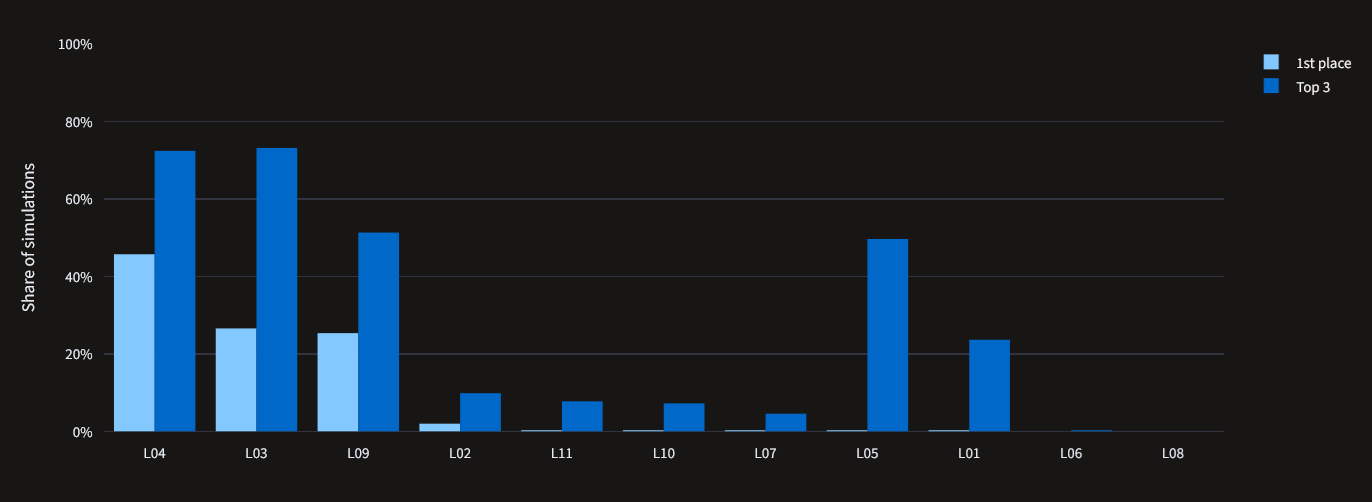
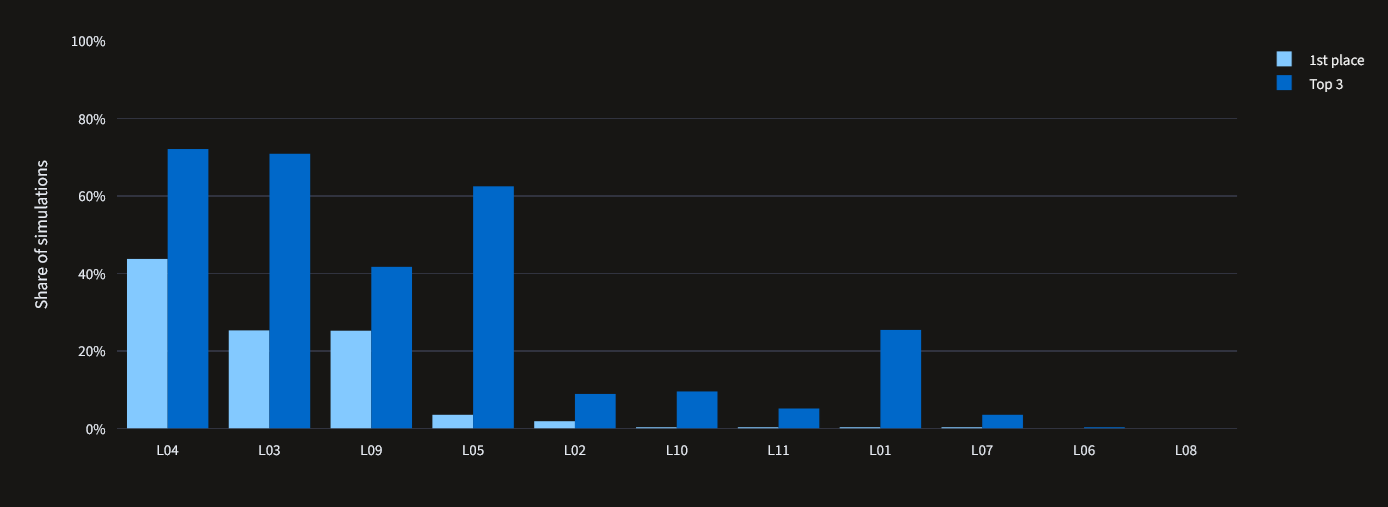
added, test_clean_data.py, clarified some tests in test_topsis.py, added LICENSE, corrected README

diff --git a/tests/test_clean_data.py b/tests/test_clean_data.py
@@ -1,0 +1,169 @@
+"""Tests for src/clean_data.py.
+
+Expected values follow directly from the unit conventions in data/README.md
+(e.g. 1 TB = 1024 GB, 1000 g = 1 kg, System: None/Home/Pro = 0/1/2).
+"""
+
+from __future__ import annotations
+
+from pathlib import Path
+
+import pandas as pd
+import pytest
+
+import clean_data
+from clean_data import clean_laptops, parse_with_unit
+
+DATA_DIR = Path(__file__).resolve().parents[1] / "data"
+
+
+def make_raw(**overrides: list[str]) -> pd.DataFrame:
+    """A small raw table (two laptops, all values as strings, as read by main())."""
+    data = {
+        "Name": ["  Laptop A  ", "Laptop B"],
+        "Price": ["2499", "15690"],
+        "System": ["Windows 11 Home", "None"],
+        "RAM": ["8GB", "32 GB"],
+        "Memory": ["512 GB", "1TB"],
+        "CPU_name": ["CPU A", "CPU B"],
+        "CPU_score": ["15445", "57942"],
+        "GPU_name": ["GPU A", "GPU B"],
+        "GPU_score": ["3197", "26356"],
+        "Display": ["60hz", "300Hz"],
+        "Battery": ["41Wh", "90wh"],
+        "Weight": ["1.66kg", "2650g"],
+    }
+    data.update(overrides)
+    return pd.DataFrame(data)
+
+
+# --- parse_with_unit ------------------------------------------------------------
+
+
+@pytest.mark.parametrize(
+    "value, column, expected",
+    [
+        ("16GB", "RAM", 16.0),
+        ("512 GB", "Memory", 512.0),
+        ("1TB", "Memory", 1024.0),
+        ("2 tb", "Memory", 2048.0),
+        ("165hz", "Display", 165.0),
+        ("80Wh", "Battery", 80.0),
+        ("1.87kg", "Weight", 1.87),
+        ("1,87kg", "Weight", 1.87),
+        ("1870g", "Weight", 1.87),
+        ("  16GB  ", "RAM", 16.0),
+    ],
+    ids=[
+        "gb", "gb_with_space", "tb_to_gb", "tb_lowercase", "hz", "wh",
+        "kg", "decimal_comma", "grams_to_kg", "surrounding_spaces",
+    ],
+)
+def test_parse_with_unit(value, column, expected):
+    assert parse_with_unit(value, column) == pytest.approx(expected)
+
+
+@pytest.mark.parametrize(
+    "value, column, message",
+    [
+        ("16MB", "RAM", "unknown unit"),
+        ("1TB", "RAM", "unknown unit"),  # TB is accepted for Memory only
+        ("16", "RAM", "cannot parse"),
+        ("GB", "RAM", "cannot parse"),
+        ("16 GB extra", "RAM", "cannot parse"),
+        ("", "Weight", "cannot parse"),
+    ],
+    ids=["wrong_unit", "unit_of_other_column", "no_unit", "no_number",
+         "trailing_text", "empty"],
+)
+def test_parse_with_unit_rejects_bad_values(value, column, message):
+    with pytest.raises(ValueError, match=message):
+        parse_with_unit(value, column)
+
+
+# --- clean_laptops --------------------------------------------------------------
+
+
+def test_clean_laptops_converts_all_columns():
+    clean = clean_laptops(make_raw())
+    assert clean["System"].tolist() == [1, 0]
+    assert clean["RAM"].tolist() == [8, 32]
+    assert clean["Memory"].tolist() == [512, 1024]
+    assert clean["Display"].tolist() == [60, 300]
+    assert clean["Battery"].tolist() == [41, 90]
+    assert clean["Weight"].tolist() == pytest.approx([1.66, 2.65])
+    assert clean["Price"].tolist() == [2499, 15690]
+    assert clean["CPU_score"].tolist() == [15445, 57942]
+    assert clean["GPU_score"].tolist() == [3197, 26356]
+
+
+def test_clean_laptops_column_types():
+    clean = clean_laptops(make_raw())
+    for col in ("System", "RAM", "Memory", "Display", "Battery", "Price",
+                "CPU_score", "GPU_score"):
+        assert pd.api.types.is_integer_dtype(clean[col]), col
+    assert pd.api.types.is_float_dtype(clean["Weight"])
+
+
+def test_clean_laptops_adds_ids_as_index():
+    clean = clean_laptops(make_raw())
+    assert clean.index.tolist() == ["L01", "L02"]
+    assert clean.index.name == "ID"
+
+
+def test_clean_laptops_strips_text():
+    assert clean_laptops(make_raw())["Name"].tolist() == ["Laptop A", "Laptop B"]
+
+
+def test_clean_laptops_all_system_codes():
+    raw = make_raw(System=["Windows 11 Pro", " Windows 11 Home "])
+    assert clean_laptops(raw)["System"].tolist() == [2, 1]
+
+
+def test_clean_laptops_does_not_modify_input():
+    raw = make_raw()
+    before = raw.copy()
+    clean_laptops(raw)
+    pd.testing.assert_frame_equal(raw, before)
+
+
+@pytest.mark.parametrize(
+    "overrides, message",
+    [
+        ({"System": ["Windows 10", "None"]}, "unknown value"),
+        ({"RAM": ["8GB", "lots"]}, "cannot parse"),
+        ({"Weight": ["1.66kg", "2.65lb"]}, "unknown unit"),
+        ({"Price": ["2499", "n/a"]}, "Unable to parse"),
+    ],
+    ids=["unknown_system", "unparsable_ram", "unknown_weight_unit", "non_numeric_price"],
+)
+def test_clean_laptops_rejects_bad_data(overrides, message):
+    with pytest.raises(ValueError, match=message):
+        clean_laptops(make_raw(**overrides))
+
+
+# --- main() and the real data files ------------------------------------------------
+
+
+def test_main_writes_clean_csv_and_keeps_none_system(tmp_path, monkeypatch):
+    # The text "None" must be read as a System value, not as a missing value.
+    raw_path = tmp_path / "raw.csv"
+    clean_path = tmp_path / "clean.csv"
+    make_raw().to_csv(raw_path, index=False)
+    monkeypatch.setattr(clean_data, "RAW_PATH", raw_path)
+    monkeypatch.setattr(clean_data, "CLEAN_PATH", clean_path)
+
+    clean_data.main()
+
+    written = pd.read_csv(clean_path, index_col="ID")
+    assert written.index.tolist() == ["L01", "L02"]
+    assert written["System"].tolist() == [1, 0]
+    assert written["Memory"].tolist() == [512, 1024]
+
+
+def test_committed_clean_csv_matches_raw_csv():
+    # Fails if data/laptops.csv was edited without re-running clean_data.py.
+    raw = pd.read_csv(DATA_DIR / "laptops.csv", dtype=str, keep_default_na=False)
+    expected = clean_laptops(raw)
+    committed = pd.read_csv(DATA_DIR / "laptops_clean.csv", index_col="ID")
+    pd.testing.assert_frame_equal(committed, expected, check_dtype=False)

diff --git a/tests/test_topsis.py b/tests/test_topsis.py
@@ -17,42 +17,41 @@ from topsis import topsis
 # Expected scores are given to 4 decimal places.
 SCORE_TOL = 5e-5
 
+# Each case: decision matrix, weights, directions, expected scores,
+# expected ranks (1 = best).
 HAND_CASES = [
     pytest.param(
         [[4, 80, 10], [6, 90, 8], [3, 60, 12]],
         [0.5, 0.3, 0.2],
         ["min", "max", "max"],
-        [0.6578,0.2531,0.7469],
-        [1, 2, 0],
+        [0.6578, 0.2531, 0.7469],
+        [2, 3, 1],
         id="mixed_gain_cost",
     ),
     pytest.param(
         [[20, 15, 30], [10, 25, 20], [15, 10, 15]],
         [0.4, 0.4, 0.2],
         ["min", "min", "min"],
-        [0.4198,0.4445,0.7494],
-        [2, 1, 0],
+        [0.4198, 0.4445, 0.7494],
+        [3, 2, 1],
         id="all_cost",
     ),
 ]
 
 
-
-
 # --- Hand-calculated cases (author) -------------------------------------------
 
 
-@pytest.mark.parametrize("data, weights, signs, expected_score, expected_rank0", HAND_CASES)
-def test_hand_calculated_scores(data, weights, signs, expected_score, expected_rank0):
-    result = topsis(pd.DataFrame(data), weights, signs)
-    np.testing.assert_allclose(result["score"], expected_score, rtol=0, atol=SCORE_TOL)
+@pytest.mark.parametrize("data, weights, directions, expected_scores, expected_ranks", HAND_CASES)
+def test_hand_calculated_scores(data, weights, directions, expected_scores, expected_ranks):
+    result = topsis(pd.DataFrame(data), weights, directions)
+    np.testing.assert_allclose(result["score"], expected_scores, rtol=0, atol=SCORE_TOL)
 
 
-@pytest.mark.parametrize("data, weights, signs, expected_score, expected_rank0", HAND_CASES)
-def test_hand_calculated_ranks(data, weights, signs, expected_score, expected_rank0):
-    # The author's ranks are 0-based (0 = best); topsis() returns 1-based ranks.
-    result = topsis(pd.DataFrame(data), weights, signs)
-    assert result["rank"].tolist() == [r + 1 for r in expected_rank0]
+@pytest.mark.parametrize("data, weights, directions, expected_scores, expected_ranks", HAND_CASES)
+def test_hand_calculated_ranks(data, weights, directions, expected_scores, expected_ranks):
+    result = topsis(pd.DataFrame(data), weights, directions)
+    assert result["rank"].tolist() == expected_ranks
 
 
 # --- Properties of the method -------------------------------------------------

diff --git a/README.md b/README.md
@@ -95,9 +95,11 @@ topsis_sensitivity/
 │   └── app.py                 Streamlit user interface
 ├── tests/
 │   ├── test_topsis.py         hand-calculated cases, method properties, invalid input
-│   └── test_sensitivity.py    hand-calculated cases, properties, reproducibility
+│   ├── test_sensitivity.py    hand-calculated cases, properties, reproducibility
+│   └── test_clean_data.py     unit parsing, System codes, raw CSV -> clean CSV
 ├── requirements.txt
-└── pytest.ini
+├── pytest.ini
+└── LICENSE
 ```
 
 `topsis.py` and `sensitivity.py` are pure functions without Streamlit, so they
@@ -111,6 +113,9 @@ author) with properties the method must satisfy: invariance to column scale and
 to weight scale, a dominant alternative scoring 1, identical alternatives sharing
 a rank, a zero weight being equivalent to dropping the criterion, reproducible
 Monte Carlo results for a fixed seed, and readable errors for invalid input.
+The data-cleaning tests check unit conversion (e.g. TB to GB, g to kg), the
+`System` codes, rejection of malformed values, and that `laptops_clean.csv` is
+up to date with `laptops.csv`.
 
 ## Results and conclusions
 
@@ -130,9 +135,10 @@ Monte Carlo results for a fixed seed, and readable errors for invalid input.
 
 ### Ranking
 
-With these weights two laptops stand out: **L03** (Lenovo Legion 5, score 0.576) and
-**L04** (Lenovo Legion Pro 5, 0.571) are almost tied and clearly ahead of the next L09
-(Asus Vivobook 16, 0.526). All remaining laptops score 0.50 or less.
+With these weights two laptops stand out: **L03** (Lenovo Legion 5, score 0.557) and
+**L04** (Lenovo Legion Pro 5, 0.555) are almost tied. They are followed by **L05**
+(Asus ROG Strix G16, 0.535) and **L09** (Asus Vivobook 16, 0.508). All remaining
+laptops score 0.48 or less.
 
 ![Ranking for the author's weights](docs/personalised_ranking.png)
 
@@ -140,31 +146,35 @@ With these weights two laptops stand out: **L03** (Lenovo Legion 5, score 0.576)
 
 The ranking is not stable: small changes in the weights can change the top pick.
 In the Monte Carlo simulation (n = 5000, concentration = 50, seed = 0) L03, despite being
-first in the ranking, wins only about 26% of the simulations, while L04 wins about
-46%. If robustness to the choice of weights matters most, L04 is the safer choice.
-Both laptops reach the top three in roughly 72–73% of the simulations. L09 wins
-about 25% of the time, practically as often as L03, however it is not as often in the top three.
+first in the ranking, wins only about 25% of the simulations, while L04 wins about
+44%. L04 also reaches the top three slightly more often (about 72% against 71% for L03),
+so if robustness to the choice of weights matters most, L04 is the safer choice.
+L09 wins about 25% of the time, practically as often as L03, but reaches the top three
+far less often (about 42%). It does, however, have the best mean rank (3.2), because
+it rarely falls far down the ranking.
 
 ![Monte Carlo: share of first places and top-three places](docs/montecarlo.png)
 
-Beyond the three expected leaders, L05 (in the top three in about half of the
-simulations) and, to a lesser extent, L01 (about a quarter) also score highly,
-although they almost never come first. Both are worth keeping on the shortlist
-for the final decision. 
+L05 is a strong contender as well: it reaches the top three in about 62% of the
+simulations, although it comes first in fewer than 4%. L01 is in the top three in
+about a quarter of the simulations and almost never comes first. Both are worth
+keeping in mind for the final decision.
 
 ### Sensitivity to the Price weight (one-at-a-time)
 
 Price has the largest weight, so it was varied from 0 to 1 while the other
 weights kept their proportions (21 grid points, step 0.05). The winner changes
-three times:
+four times:
 
 | Price weight | Winner |
 |---|---|
-| 0.00–0.25 | L04 |
+| 0.00–0.10 | L05 |
+| 0.15–0.25 | L04 |
 | 0.30 | L03 |
 | 0.35–0.55 | L09 |
 | 0.60–1.00 | L01 |
 
+When price barely matters (weight up to 0.10), the most powerful laptop, L05, wins.
 The author's weight (0.28) lies right between the grid points where L04 and L03
 swap places. This explains why the two are almost tied and why the Monte Carlo
 winner changes so often: a small random change in the Price weight is enough to
@@ -179,17 +189,17 @@ first place from about 0.35 (L09) and 0.6 (L01). The high-performance laptops
 behave the opposite way: L04 and L05 drop to 10th and 11th place once the Price
 weight exceeds about 0.35.
 
-**Conclusion:** the 0.005 difference between L03 and L04 is smaller than the
+**Conclusion:** the 0.002 difference between L03 and L04 is smaller than the
 effect of weight uncertainty, and the choice depends mainly on how much price
-matters. The analysis supports a shortlist (L04, L03, L09, then L05) rather than
-a single winner: L04 if price is less important than in the author's weights,
-L03 at the author's weights, and L09 or L01 if price dominates.
+matters. The analysis supports a shortlist (L04, L03, then L05 and L09) rather than
+a single winner: L05 if price hardly matters, L04 if price is less important than
+in the author's weights, L03 at the author's weights, and L09 or L01 if price dominates.
 
 ## Limitations
 
 - **Weights are subjective.** The sensitivity analysis shows how much they matter
   but cannot choose them.
-  By default all critera are set to have the same weight.
+  By default all criteria are set to have the same weight.
   This can be changed in the app.
 - **Correlated criteria.** CPU and GPU scores tend to rise together, so performance
   can effectively be counted twice.
@@ -199,6 +209,10 @@ L03 at the author's weights, and L09 or L01 if price dominates.
 - **Snapshot data.** Prices reflect a single day; only weight uncertainty is
   analysed, not uncertainty in the data.
 - **Small sample.** 11 laptops from one shop, not a market overview.
+
+## License
+
+MIT, see [LICENSE](LICENSE).
 
 ---
 
